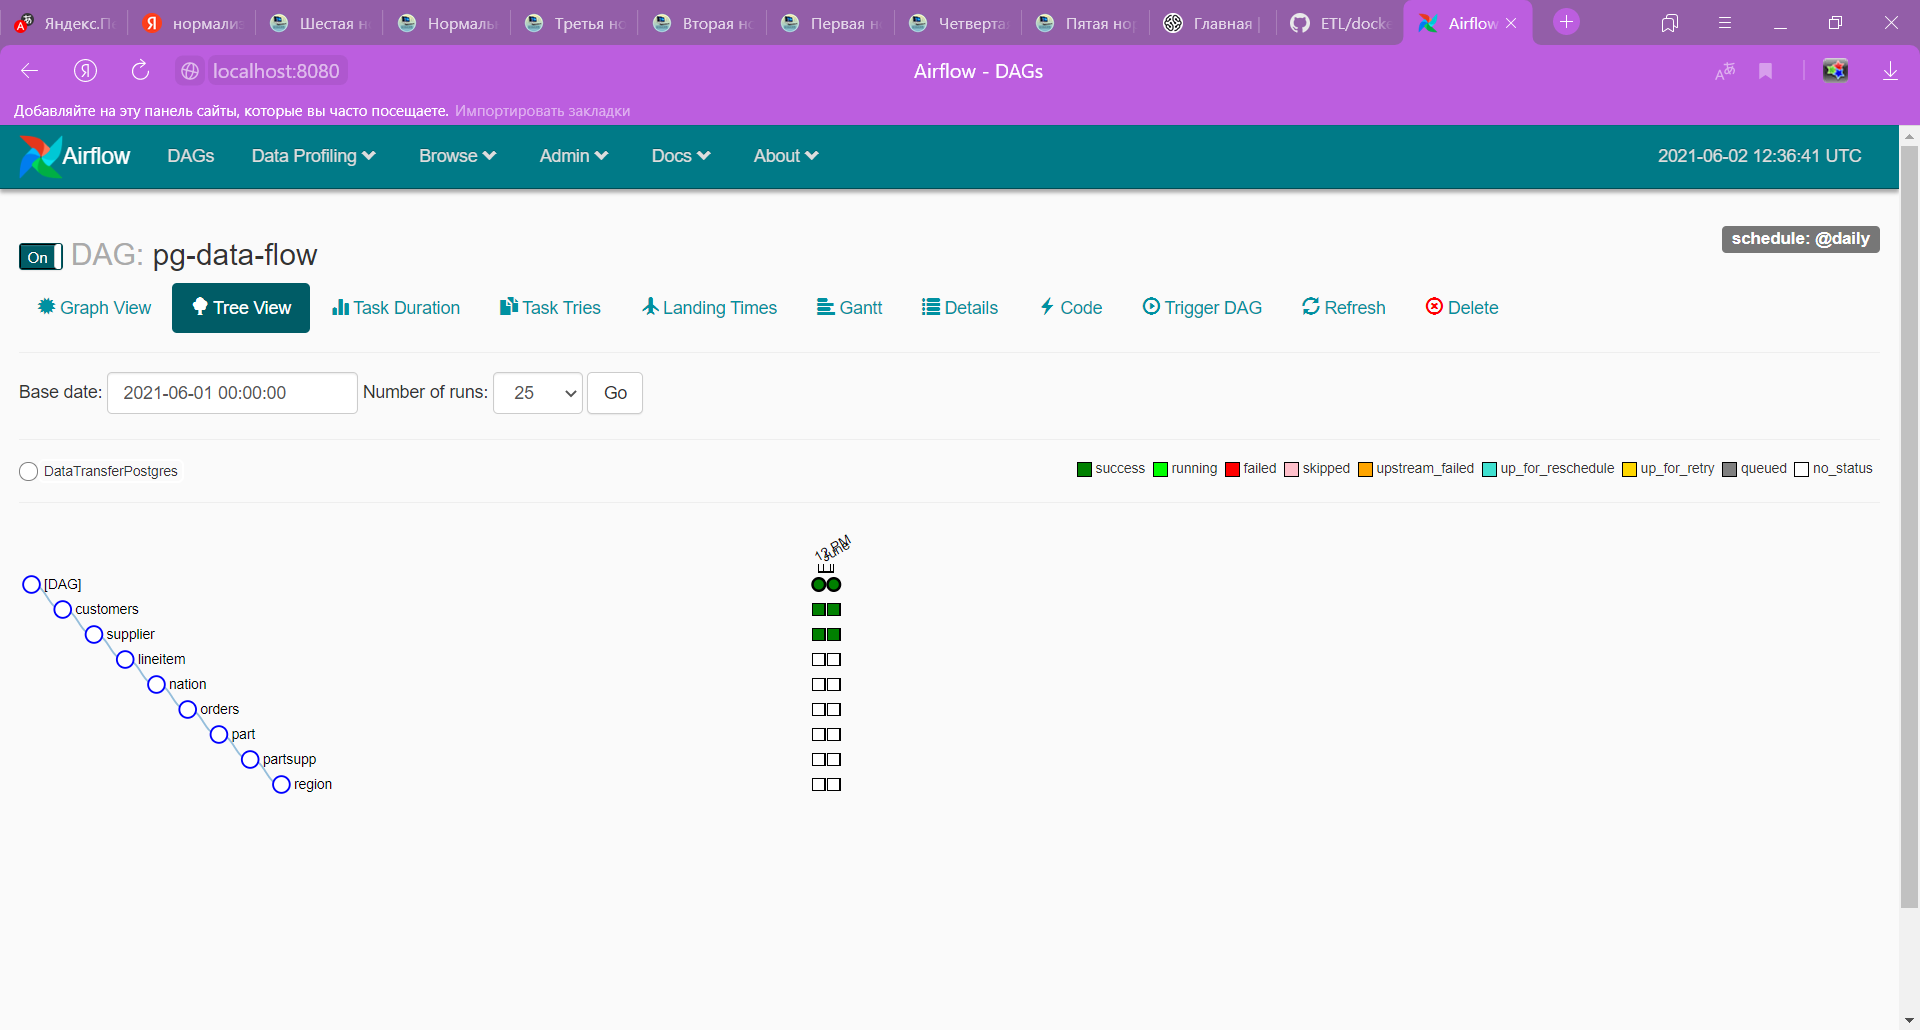
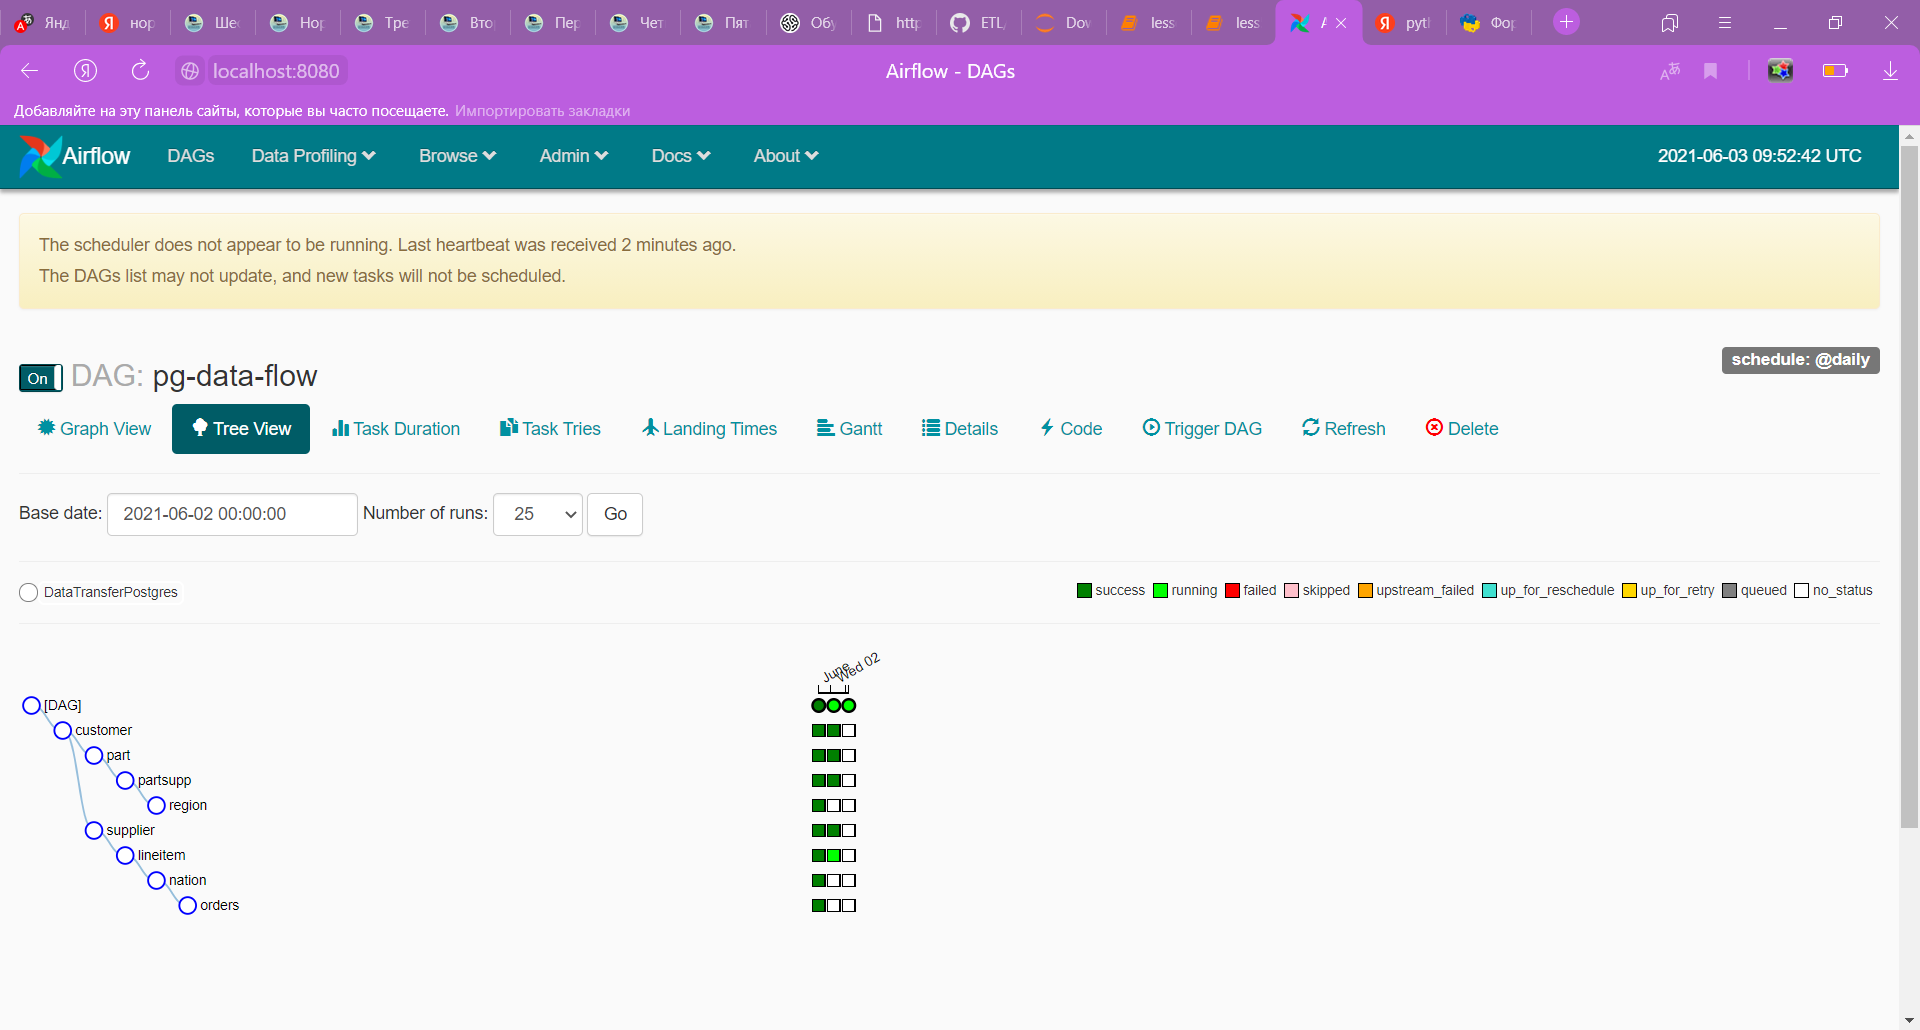
update4 dag.py add airflow.png

diff --git a/dags/dag.py b/dags/dag.py
@@ -2,7 +2,6 @@ from airflow import DAG
 from operators.postgres import DataTransferPostgres
 from datetime import datetime
 
-
 DEFAULT_ARGS = {
     "owner": "airflow",
     "start_date": datetime(2021, 5, 31),
@@ -22,10 +21,11 @@ with DAG(
     t1 = DataTransferPostgres(
         config={'table': 'public.customer'},
         query='select * from customer',
-        task_id='customers',
+        task_id='customer',
         source_pg_conn_str="host='db' port=5432 dbname='tpch' user='root' password='postgres'",
         pg_conn_str="host='db2' port=5432 dbname='db_target' user='root' password='postgres'",
     )
+
     t2 = DataTransferPostgres(
         config={'table': 'public.supplier'},
         query='select * from supplier',
@@ -33,6 +33,7 @@ with DAG(
         source_pg_conn_str="host='db' port=5432 dbname='tpch' user='root' password='postgres'",
         pg_conn_str="host='db2' port=5432 dbname='db_target' user='root' password='postgres'",
     )
+
     t3 = DataTransferPostgres(
         config={'table': 'public.lineitem'},
         query='select * from lineitem',
@@ -40,6 +41,7 @@ with DAG(
         source_pg_conn_str="host='db' port=5432 dbname='tpch' user='root' password='postgres'",
         pg_conn_str="host='db2' port=5432 dbname='db_target' user='root' password='postgres'",
     )
+
     t4 = DataTransferPostgres(
         config={'table': 'public.nation'},
         query='select * from nation',
@@ -47,6 +49,7 @@ with DAG(
         source_pg_conn_str="host='db' port=5432 dbname='tpch' user='root' password='postgres'",
         pg_conn_str="host='db2' port=5432 dbname='db_target' user='root' password='postgres'",
     )
+
     t5 = DataTransferPostgres(
         config={'table': 'public.orders'},
         query='select * from orders',
@@ -54,6 +57,7 @@ with DAG(
         source_pg_conn_str="host='db' port=5432 dbname='tpch' user='root' password='postgres'",
         pg_conn_str="host='db2' port=5432 dbname='db_target' user='root' password='postgres'",
     )
+
     t6 = DataTransferPostgres(
         config={'table': 'public.part'},
         query='select * from part',
@@ -61,6 +65,7 @@ with DAG(
         source_pg_conn_str="host='db' port=5432 dbname='tpch' user='root' password='postgres'",
         pg_conn_str="host='db2' port=5432 dbname='db_target' user='root' password='postgres'",
     )
+
     t7 = DataTransferPostgres(
         config={'table': 'public.partsupp'},
         query='select * from partsupp',
@@ -68,6 +73,7 @@ with DAG(
         source_pg_conn_str="host='db' port=5432 dbname='tpch' user='root' password='postgres'",
         pg_conn_str="host='db2' port=5432 dbname='db_target' user='root' password='postgres'",
     )
+
     t8 = DataTransferPostgres(
         config={'table': 'public.region'},
         query='select * from region',
@@ -75,10 +81,6 @@ with DAG(
         source_pg_conn_str="host='db' port=5432 dbname='tpch' user='root' password='postgres'",
         pg_conn_str="host='db2' port=5432 dbname='db_target' user='root' password='postgres'",
     )
-    t1 >> t2
-    t2 >> t3
-    t3 >> t4
-    t4 >> t5
-    t5 >> t6
-    t6 >> t7
-    t7 >> t8
+
+    t1 >> t2 >> t3 >> t4 >> t5
+    t1 >> t6 >> t7 >> t8
